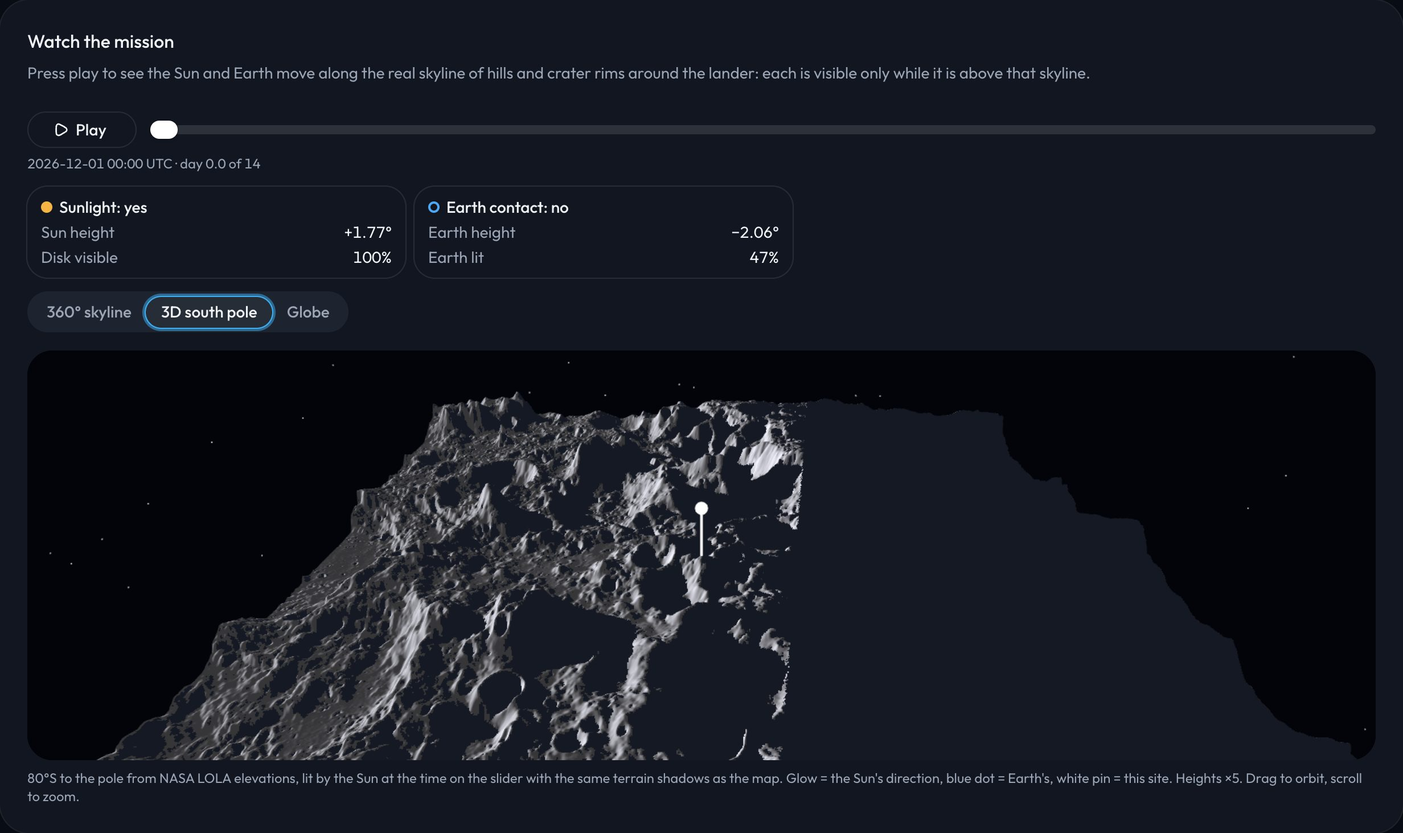
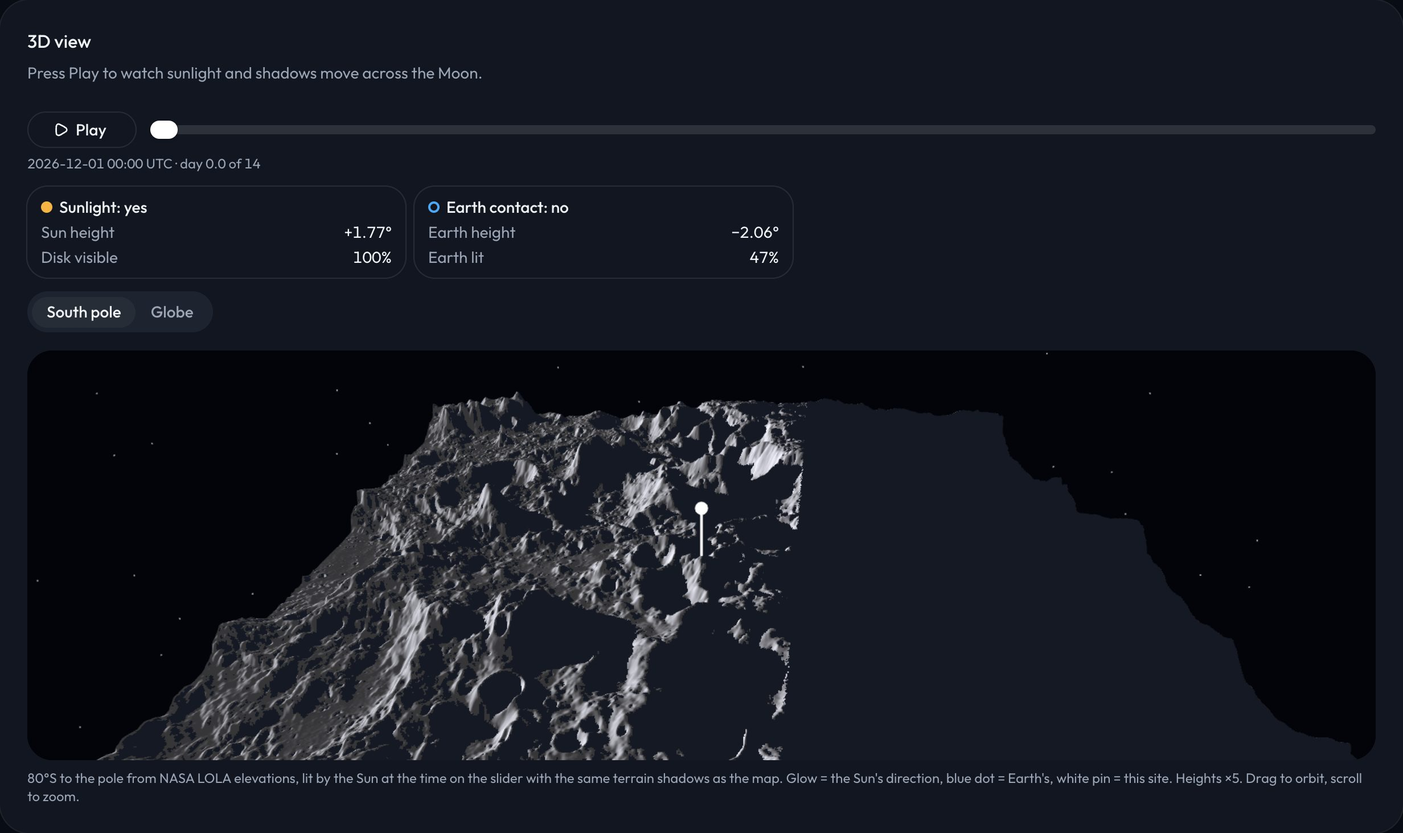
Remove the skyline chart; the mission card is now a simple 3D view

Changed region(s): [[0.0, 0.0307, 0.7812, 0.0922], [0.0312, 0.3381, 0.25, 0.3996]]

diff --git a/frontend/app/components/mission-view.tsx b/frontend/app/components/mission-view.tsx
@@ -6,14 +6,12 @@ import { useState } from "react";
 import { Card, CardContent, CardDescription, CardHeader, CardTitle } from "@/components/ui/card";
 import { Tabs, TabsContent, TabsList, TabsTrigger } from "@/components/ui/tabs";
 
-import { COLORS } from "../lib/colors";
 import { horizonAt } from "../lib/format";
 import type { Scenario, Site } from "../lib/types";
 import { type MissionClock, MissionPlayer } from "./mission-player";
-import { SkyChart } from "./sky-chart";
 import { TimelineChart } from "./timeline-chart";
 
-// three.js is large: load the 3D views only when their tab is opened, and never on the server.
+// three.js is large: load each 3D view in the browser only, the first time its tab is shown.
 const loading = () => <p className="grid h-full place-items-center text-sm text-muted-foreground">Loading 3D view…</p>;
 const MoonGlobe = dynamic(() => import("./moon-globe"), { ssr: false, loading });
 const SouthPole3D = dynamic(() => import("./south-pole-3d"), { ssr: false, loading });
@@ -72,23 +70,23 @@ export function MissionTimeline({ scenario }: { scenario: Scenario }) {
   );
 }
 
-/** Watch the mission play out: the skyline around the lander and the 3D views, all on the mission clock. */
+/**
+ * The mission in 3D, on the mission clock: the south pole (the default for sites within its 80°S edge)
+ * or the whole Moon.
+ */
 export function MissionViews({ scenario, sites, clock }: { scenario: Scenario; sites: Site[]; clock: MissionClock }) {
   const s = scenario.series;
   const { index } = clock;
-  const [view, setView] = useState("skyline");
-  const [opened, setOpened] = useState(() => new Set(["skyline"])); // 3D views mount the first time they're opened
+  const [view, setView] = useState(() => (scenario.site.lat <= -80 ? "pole3d" : "globe"));
+  const [opened, setOpened] = useState(() => new Set([view])); // each 3D view mounts the first time it's shown
   const sunUp = s.sun_el[index] > horizonAt(scenario, s.sun_az[index]);
   const earthUp = s.earth_el[index] > horizonAt(scenario, s.earth_az[index]);
 
   return (
     <Card>
       <CardHeader>
-        <CardTitle>Watch the mission</CardTitle>
-        <CardDescription>
-          Press Play to watch the Sun and Earth move around the lander. Each is visible only while it is above the
-          hills.
-        </CardDescription>
+        <CardTitle>3D view</CardTitle>
+        <CardDescription>Press Play to watch sunlight and shadows move across the Moon.</CardDescription>
       </CardHeader>
       <CardContent className="grid min-w-0 gap-3">
         <MissionPlayer scenario={scenario} clock={clock} />
@@ -124,34 +122,14 @@ export function MissionViews({ scenario, sites, clock }: { scenario: Scenario; s
           }}
         >
           <TabsList className="w-full sm:w-fit">
-            <TabsTrigger value="skyline" className={TAB}>
-              360° skyline
-            </TabsTrigger>
             <TabsTrigger value="pole3d" className={TAB}>
-              3D south pole
+              South pole
             </TabsTrigger>
             <TabsTrigger value="globe" className={TAB}>
               Globe
             </TabsTrigger>
           </TabsList>
           <div className="grid grid-cols-1 *:col-start-1 *:row-start-1">
-            <TabsContent value="skyline" forceMount className={VIEW_PANEL}>
-              <SkyChart scenario={scenario} index={index} />
-              <ul className="flex flex-wrap gap-x-4 gap-y-1 text-xs text-muted-foreground">
-                <li className="flex items-center gap-1.5">
-                  <span className="inline-block h-0.5 w-4" style={{ background: COLORS.sun }} /> Sun&apos;s path
-                </li>
-                <li className="flex items-center gap-1.5">
-                  <span className="inline-block h-0.5 w-4" style={{ background: COLORS.earth }} /> Earth&apos;s path
-                </li>
-                <li className="flex items-center gap-1.5">
-                  <span className="inline-block h-2.5 w-4 rounded-sm" style={{ background: COLORS.terrain }} /> hills around the lander
-                </li>
-                <li className="flex items-center gap-1.5">
-                  <Dot color={COLORS.muted} hollow /> hidden behind the hills
-                </li>
-              </ul>
-            </TabsContent>
             <TabsContent value="pole3d" forceMount className={VIEW_PANEL}>
               <div className="h-[360px]">
                 {opened.has("pole3d") && (

diff --git a/frontend/app/components/plot-figure.tsx b/frontend/app/components/plot-figure.tsx
@@ -3,53 +3,11 @@
 import { useEffect, useRef } from "react";
 
 /** The SVG returned by Plot.plot (our charts have no Plot legends, so it is always an <svg>). */
-export type PlotElement = SVGSVGElement & {
-  scale(name: string): { apply(value: unknown): number; domain?: unknown[]; range?: number[] } | undefined;
-};
+export type PlotElement = SVGSVGElement;
 
-const SVG_NS = "http://www.w3.org/2000/svg";
-
-/** Empty, reusable <g> on top of a chart for cheap per-frame marks (cursor, markers). */
-export function overlayLayer(plot: PlotElement): SVGGElement {
-  let g = plot.querySelector<SVGGElement>("g[data-overlay]");
-  if (!g) {
-    g = document.createElementNS(SVG_NS, "g");
-    g.setAttribute("data-overlay", "");
-    plot.append(g);
-  }
-  g.replaceChildren();
-  return g;
-}
-
-export function svg(tag: string, attrs: Record<string, string | number>, text?: string): SVGElement {
-  const el = document.createElementNS(SVG_NS, tag);
-  for (const [k, v] of Object.entries(attrs)) el.setAttribute(k, String(v));
-  if (text !== undefined) el.textContent = text;
-  return el;
-}
-
-/**
- * Renders an Observable Plot chart at the container's width. The chart is rebuilt only when
- * `render` changes or the width changes; `overlay` (e.g. a time cursor) is redrawn on its own,
- * so scrubbing doesn't rebuild thousands of marks.
- */
-export function PlotFigure({
-  render,
-  overlay,
-  label,
-}: {
-  render: (width: number) => PlotElement;
-  overlay?: (plot: PlotElement) => void;
-  label: string;
-}) {
+/** Renders an Observable Plot chart at the container's width; it is rebuilt only when `render` or the width changes. */
+export function PlotFigure({ render, label }: { render: (width: number) => PlotElement; label: string }) {
   const ref = useRef<HTMLDivElement>(null);
-  const plotRef = useRef<PlotElement | null>(null);
-  const overlayRef = useRef(overlay);
-
-  useEffect(() => {
-    overlayRef.current = overlay;
-    if (plotRef.current) overlay?.(plotRef.current);
-  }, [overlay]);
 
   useEffect(() => {
     const el = ref.current;
@@ -58,10 +16,7 @@ export function PlotFigure({
     const draw = () => {
       if (el.clientWidth === width) return;
       width = el.clientWidth;
-      const plot = render(width);
-      el.replaceChildren(plot);
-      plotRef.current = plot;
-      overlayRef.current?.(plot);
+      el.replaceChildren(render(width));
     };
     draw();
     const observer = new ResizeObserver(draw);

diff --git a/frontend/app/components/method.tsx b/frontend/app/components/method.tsx
@@ -91,7 +91,7 @@ export function Method() {
           </li>
           <li>
             The map layers (sunlight %, Earth contact %, live shadows) use coarser terrain (240–720 m) and are
-            approximate. The skyline chart and the 3D views stretch heights so low terrain is easy to see;
+            approximate. The 3D views stretch heights so low terrain is easy to see;
             directions and positions are exact.
           </li>
           <li>Dates are limited to 2026–2030, the period of the cached ephemeris.</li>

diff --git a/frontend/app/lib/colors.ts b/frontend/app/lib/colors.ts
@@ -3,7 +3,6 @@ export const COLORS = {
   sun: "#f5b544",
   earth: "#4ea8f5",
   both: "#7bd389",
-  terrain: "#4b5873",
   text: "#eef2f8",
   muted: "#a3adc2",
   track: "#2a3448", // empty timeline lanes

diff --git a/REFERENCE.md b/REFERENCE.md
@@ -13,7 +13,7 @@ frontend/          Next.js 16 app (App Router, TypeScript, Tailwind v4, shadcn/u
   app/page.tsx         Page shell (header, method section, footer)
   app/layout.tsx       Font (Outfit as `--font-sans`; it has tabular digits), metadata, favicon (/lander.svg)
   app/navigator.tsx    Client component: loads sites, runs scenarios, lays out results, syncs the URL
-  app/components/      Scenario form, south-pole map, results, sky chart, timelines, comparison, best dates, method
+  app/components/      Scenario form, south-pole map, results, timelines, 3D views, comparison, best dates, method
   public/south-pole-map.png  Shaded relief 80°S–90°S (built by backend/scripts/build_basemap.py)
   public/south-pole-heights.bin  848×848 int16 heights (m) for live shadows, same projection as the relief map
   public/sunlight-map.png, earth-map.png, heatmap.json  Heat map overlays and values (build_heatmap.py)
@@ -107,16 +107,16 @@ The browser calls the backend on the same origin (`fetch("/api/...")`), so there
 
 - **Shareable URLs:** after each successful evaluation the page URL is replaced with `?site=<id>` or `?lat=…&lon=…`, plus `start=YYYY-MM-DDTHH:mm` (UTC) and `days`. On load these parameters prefill the form; missing ones fall back to the defaults (first south-pole site, 2026-12-01 00:00 UTC, 14 days).
 - **South-pole map:** `south-pole-map.png` is 848 × 848 px, polar stereographic centered on the pole, half-width 305,280 m (≈80°S at the edge midpoints), image up = 0°E (toward Earth), 90°E to the right. The constants in `components/south-pole-map.tsx` must match `scripts/build_basemap.py`. Clicking a dot selects a curated site; clicking elsewhere evaluates that point as custom coordinates.
-- **Mission clock** (`components/mission-player.tsx`): `useMissionClock` in `navigator.tsx` holds the page's one mission time (a sample index) and playback (about 12 s per mission, 80 ms frames); it resets to landing time for each new scenario. Every `MissionPlayer` (Play/Pause/Replay, slider, "2026-12-04 05:00 UTC · day 3.2 of 14" with the fixed-length date first so nothing shifts) drives the same clock. There are two: right under the map (it animates the map's live shadows) and at the top of the "Watch the mission" card. The map's shadows and every view follow the clock.
+- **Mission clock** (`components/mission-player.tsx`): `useMissionClock` in `navigator.tsx` holds the page's one mission time (a sample index) and playback (about 12 s per mission, 80 ms frames); it resets to landing time for each new scenario. Every `MissionPlayer` (Play/Pause/Replay, slider, "2026-12-04 05:00 UTC · day 3.2 of 14" with the fixed-length date first so nothing shifts) drives the same clock. There are two: right under the map (it animates the map's live shadows) and at the top of the "3D view" card. The map's shadows and every view follow the clock.
 - **Mission timeline** (`MissionTimeline` + `components/timeline-chart.tsx`): a static picture, no cursor or player. Three bands (Sunlight, Earth contact, Both, each with its % of the mission) on a "Days after landing" axis; every stretch wide enough for its label says how long it lasts, gaps say "… dark" or "… no contact" (labels that don't fit are left out). The height-above-skyline chart was removed on Nov 15 (too technical).
-- **Watch the mission** (`MissionViews`): player, two readout tiles (Sunlight: Sun height and visible disk; Earth contact: Earth height and Earth lit; labels left, values on the right edge with `tabular-nums` and `whitespace-nowrap`, so values changing every frame never move anything), and view tabs. All panels sit in one grid cell (`forceMount`, inactive ones `invisible`, `grid-cols-1` so a wide canvas can't hold the column open), so switching tabs never changes the card's height; each view is at most 360 px tall. 3D views mount the first time their tab opens and then stay mounted, filling the 360 px box they're given.
-  - *360° skyline* (`components/sky-chart.tsx`, the default tab): a Plot panorama all the way around the lander: the hills (terrain horizon) and only the visible stretches of the Sun's and Earth's paths as thick lines (hidden stretches are not drawn), with markers at the slider time (hollow = hidden; a body far below the hills sits on the bottom edge). No height axis or grid (the readout tiles give heights) and only N/E/S/W labels. The panorama starts in the middle of the widest stretch of directions with nothing visible, so visible paths don't split across the two edges. The vertical range is fixed per scenario (1° below the lowest hill to 1° above the highest hill or visible path, at least 6° tall), so Play never rescales it. Simplified on Nov 15 (evening) after the team found the earlier version (height axis up to 12°, dotted paths, gray hidden paths, paths split across the edges) confusing. (A first-person lander view and a round sky map were removed on Nov 15: the first was usually empty, the second repeated the panorama.)
-  - *3D south pole* (`components/south-pole-3d.tsx`, three.js, loaded when the tab first opens): a 424×424-vertex plane over the map square displaced by `south-pole-heights.bin` (heights ×5), shaded per pixel in a custom `ShaderMaterial`: bilinear heights give the slope normal, the light is the Sun's direction in the scene frame (x = 90°E, y = 0°E, z = up at the pole; Moon-fixed (x, y, z) → (y, x, −z)), and the shadow test is the same GLSL ray-march as the 2D layer (`SHADOW_GLSL` in `components/shadow-layer.tsx`, true heights), run once per 720 m heights cell at its center like the map's pixels, so lit and shadowed areas match the map (testing every screen pixel inside a cell caused dotted hatching at grazing Sun angles). A glow sprite marks the Sun's direction and a blue one Earth's (sub-Earth point), each hidden while below the horizon; a white pin marks the site (or a note says it's outside 80°S–90°S). OrbitControls, renders on demand, pixel ratio capped at 1.5 because the ray-march runs per pixel. Projection helpers and constants are shared in `app/lib/polar.ts`.
-  - *Globe* (`components/moon-globe.tsx`, three.js, loaded when the tab first opens): unit sphere with the NASA SVS CGI Moon Kit 4k color map (`moon-texture.jpg`, 4096×2048, anisotropic filtering) and LOLA relief as a bump map (`moon-relief.jpg`, `ldem_3_8bit`), so craters cast shadows along the terminator; a directional light from the sub-solar point at the selected time (real day/night line); a starfield; Earth as a blue sphere in the sub-Earth direction at 5 Moon radii (radius 0.3, not to scale), lit by the same light so it shows its real phase; dots for curated sites and a white dot for the current site. For south-pole sites the camera starts at 60°S, 90°E, 6.2 radii out, so the pole and Earth are both in frame on wide screens. OrbitControls to rotate/zoom; renders on demand. Moon-fixed (x, y, z) maps to three.js as (x, z, −y) to match `SphereGeometry`'s texture layout.
+- **3D view** (`MissionViews`): player, two readout tiles (Sunlight: Sun height and visible disk; Earth contact: Earth height and Earth lit; labels left, values on the right edge with `tabular-nums` and `whitespace-nowrap`, so values changing every frame never move anything), and two view tabs: South pole (the default for sites within its 80°S edge) and Globe (the default elsewhere). Both panels sit in one grid cell (`forceMount`, inactive ones `invisible`, `grid-cols-1` so a wide canvas can't hold the column open), so switching tabs never changes the card's height; each view is at most 360 px tall. Each view mounts the first time its tab is shown (the default one at once) and then stays mounted, filling the 360 px box they're given.
+  - The 360° skyline chart (`components/sky-chart.tsx`) was removed on Nov 15 (evening): the team found it confusing even after it was simplified; the answer, the mission timeline and the 3D views carry its message. (A first-person lander view and a round sky map were removed earlier that day: the first was usually empty, the second repeated the panorama.)
+  - *South pole* (`components/south-pole-3d.tsx`, three.js, loaded when its tab is first shown): a 424×424-vertex plane over the map square displaced by `south-pole-heights.bin` (heights ×5), shaded per pixel in a custom `ShaderMaterial`: bilinear heights give the slope normal, the light is the Sun's direction in the scene frame (x = 90°E, y = 0°E, z = up at the pole; Moon-fixed (x, y, z) → (y, x, −z)), and the shadow test is the same GLSL ray-march as the 2D layer (`SHADOW_GLSL` in `components/shadow-layer.tsx`, true heights), run once per 720 m heights cell at its center like the map's pixels, so lit and shadowed areas match the map (testing every screen pixel inside a cell caused dotted hatching at grazing Sun angles). A glow sprite marks the Sun's direction and a blue one Earth's (sub-Earth point), each hidden while below the horizon; a white pin marks the site (or a note says it's outside 80°S–90°S). OrbitControls, renders on demand, pixel ratio capped at 1.5 because the ray-march runs per pixel. Projection helpers and constants are shared in `app/lib/polar.ts`.
+  - *Globe* (`components/moon-globe.tsx`, three.js, loaded when its tab is first shown): unit sphere with the NASA SVS CGI Moon Kit 4k color map (`moon-texture.jpg`, 4096×2048, anisotropic filtering) and LOLA relief as a bump map (`moon-relief.jpg`, `ldem_3_8bit`), so craters cast shadows along the terminator; a directional light from the sub-solar point at the selected time (real day/night line); a starfield; Earth as a blue sphere in the sub-Earth direction at 5 Moon radii (radius 0.3, not to scale), lit by the same light so it shows its real phase; dots for curated sites and a white dot for the current site. For south-pole sites the camera starts at 60°S, 90°E, 6.2 radii out, so the pole and Earth are both in frame on wide screens. OrbitControls to rotate/zoom; renders on demand. Moon-fixed (x, y, z) maps to three.js as (x, z, −y) to match `SphereGeometry`'s texture layout.
   - Both 3D views take an `active` prop and skip re-rendering on clock ticks while their tab is hidden (they stay mounted).
 - **Page header** (`page.tsx`): the title, the question the app answers, and a one-line how-to (click a site → choose a date → press Play).
-- **Page layout** (`navigator.tsx`): a hero row with the big south-pole map on the left and, on the right, the form, "Add to comparison", then the answer (`Answer` in `components/results.tsx`: mission brief and the two headline cards) or the error. The answer ends with a one-line validation note (the Horizons and Gläser et al. figures from "How we calculate this", linked to `#method`). Best dates (`LandingWindowsPanel` in `components/landing-windows.tsx`) scan the next 365 landing days as soon as a scenario shows; the panel is keyed by site and mission length, so a new site or length rescans while picking a date keeps the list (Rescan repeats it from the current date). Picking a best date scrolls the answer (`#answer`) into view. Custom points are titled "Custom point (coordinates)". Below the hero, full width: the comparison table, the mission timeline, the stats (`Details`), "Watch the mission" and best dates. Below `lg` it stacks as form, map, answer. The map square is `--map-size` (`app/globals.css`: `max(20rem, 100vh - 19rem)`, so it and the player under it fit on the first screen); the map column is that plus the card padding, and the right column takes the rest (at least 340 px). Every layer's note sits in one grid cell, so switching layers never changes the map card's height. The 0° label is in the top-left corner because IM-1's dot sits at the top-center edge.
-- **South-pole map layers** (`components/south-pole-map.tsx`, a `Tabs` segmented control like the sky views, with icons from `sm` up; Shadows is the default): Terrain (relief only); Sunlight and Earth contact (precomputed overlays: share of 2026–2030, every 4 h, with the body's center above the terrain horizon seen from 2 m, on a 160×160 grid (~3.8 km apart) using the 240 m map — approximate; values are at cell centers, so narrow ridges (e.g. Connecting Ridge: cell 40% vs 85% at the exact point) are not resolved, while Shackleton's floor reads 0%; the sunlight colors saturate at 70% (`scale_max` in `heatmap.json`, map maximum 64%); hovering shows the value); Shadows (`components/shadow-layer.tsx`, WebGL2): for each map pixel a ray is marched from 2 m above the ground toward the Sun (unit vector from the sub-solar point at the slider time) across `south-pole-heights.bin` (720 m), placing every sample exactly on the sphere; shadowed pixels are darkened. Approximate at 720 m: a Python copy of the ray-march agreed with the horizon model (240 m) in 254 of 300 sampled site/time cases (85%); disagreements are where the Sun is within a fraction of a degree of the skyline. Shows a message if WebGL2 is missing.
+- **Page layout** (`navigator.tsx`): a hero row with the big south-pole map on the left and, on the right, the form, "Add to comparison", then the answer (`Answer` in `components/results.tsx`: mission brief and the two headline cards) or the error. The answer ends with a one-line validation note (the Horizons and Gläser et al. figures from "How we calculate this", linked to `#method`). Best dates (`LandingWindowsPanel` in `components/landing-windows.tsx`) scan the next 365 landing days as soon as a scenario shows; the panel is keyed by site and mission length, so a new site or length rescans while picking a date keeps the list (Rescan repeats it from the current date). Picking a best date scrolls the answer (`#answer`) into view. Custom points are titled "Custom point (coordinates)". Below the hero, full width: the comparison table, the mission timeline, the stats (`Details`), the "3D view" card and best dates. Below `lg` it stacks as form, map, answer. The map square is `--map-size` (`app/globals.css`: `max(20rem, 100vh - 19rem)`, so it and the player under it fit on the first screen); the map column is that plus the card padding, and the right column takes the rest (at least 340 px). Every layer's note sits in one grid cell, so switching layers never changes the map card's height. The 0° label is in the top-left corner because IM-1's dot sits at the top-center edge.
+- **South-pole map layers** (`components/south-pole-map.tsx`, a `Tabs` segmented control like the 3D view tabs, with icons from `sm` up; Shadows is the default): Terrain (relief only); Sunlight and Earth contact (precomputed overlays: share of 2026–2030, every 4 h, with the body's center above the terrain horizon seen from 2 m, on a 160×160 grid (~3.8 km apart) using the 240 m map — approximate; values are at cell centers, so narrow ridges (e.g. Connecting Ridge: cell 40% vs 85% at the exact point) are not resolved, while Shackleton's floor reads 0%; the sunlight colors saturate at 70% (`scale_max` in `heatmap.json`, map maximum 64%); hovering shows the value); Shadows (`components/shadow-layer.tsx`, WebGL2): for each map pixel a ray is marched from 2 m above the ground toward the Sun (unit vector from the sub-solar point at the slider time) across `south-pole-heights.bin` (720 m), placing every sample exactly on the sphere; shadowed pixels are darkened. Approximate at 720 m: a Python copy of the ray-march agreed with the horizon model (240 m) in 254 of 300 sampled site/time cases (85%); disagreements are where the Sun is within a fraction of a degree of the skyline. Shows a message if WebGL2 is missing.
 - **Charts are built once per scenario.** `PlotFigure` rebuilds a Plot chart only when its `render` callback changes (new scenario) or its width changes; per-time marks (markers, cursor) are drawn by an `overlay` callback into a `<g data-overlay>` using `plot.scale("x"|"y").apply`, so dragging the slider never rebuilds thousands of marks. Charts must not use Plot legends (that would wrap the SVG in a `<figure>`); legends are HTML.
 - **Wording:** "Sunlight" (Sun above the terrain horizon) and "Earth contact" (Earth above it), "Longest darkness", "Longest blackout", "Both at once" — used the same way everywhere; one-line explanations live in `app/lib/glossary.ts` (shown via `components/info-tip.tsx`).
 - **Mission brief** (from the API, `lunar/brief.py`): a plain-language summary sentence plus Good/Fair/Poor ratings for power and comms. Rule (ours, not NASA's): good = ≥70% of the mission with no gap over 3 days; fair = ≥40% with no gap over 7 days; else poor. Tested in `tests/test_brief.py`.

diff --git a/SUBMISSION.md b/SUBMISSION.md
@@ -18,8 +18,8 @@ If a lander touches down here, on this date, how long will it have sunlight and 
 - the percentage of the mission that is sunlit, has Earth contact, or both;
 - the longest dark period (battery and thermal survival) and longest communication blackout;
 - average sunlight on a vertical vs a flat solar panel;
-- a sky panorama of the terrain horizon with the Sun's and Earth's paths, and timelines of every window.
-Every scenario starts with a plain-language mission brief and Good/Fair/Poor ratings for power and communications. Press Play to watch the mission: real terrain shadows sweep around the south pole on the map, the Sun and Earth move along the 360° skyline, a 3D model of the south pole is lit by the Sun with the same shadows, and a 3D Moon shows the day/night line with Earth in its real direction and phase. On the south-pole map you can switch on sunlight and Earth-contact heat maps or live terrain shadows that sweep around the pole as time moves. Scenarios can be compared side by side, a "best landing dates" scan evaluates every landing day over the next year, every term has a hover explanation, results download as CSV, and every scenario has a shareable link.
+- a mission timeline of every sunlit and Earth-contact window.
+Every scenario starts with a plain-language mission brief and Good/Fair/Poor ratings for power and communications. Press Play to watch the mission: real terrain shadows sweep around the south pole on the map, a 3D model of the south pole is lit by the Sun with the same shadows, and a 3D Moon shows the day/night line with Earth in its real direction and phase. On the south-pole map you can switch on sunlight and Earth-contact heat maps or live terrain shadows that sweep around the pole as time moves. Scenarios can be compared side by side, a "best landing dates" scan evaluates every landing day over the next year, every term has a hover explanation, results download as CSV, and every scenario has a shareable link.
 
 **How it works.** We query JPL Horizons once for where the Sun and Earth are directly overhead on the Moon (every 30 minutes, 2026–2030), then compute the exact direction to each from any site, including Earth's parallax. The local horizon comes from LOLA elevation maps: 720 rays cast out to 300 km from a 2 m-high lander, with every sample placed on the curved Moon (20 m maps near curated south-pole sites, 120 m beyond; 120 m + 240 m maps for custom points). A site is sunlit when the Sun's center is above that terrain horizon and has Earth contact when Earth's center is.
 
@@ -58,7 +58,7 @@ Add English subtitles if the narration is in another language.
 1. Title + one-line question
 2. The problem: south-pole lighting and comms, schedule slips
 3. Our approach: Horizons + LOLA → horizon → windows (diagram)
-4. Demo screenshot: headline answers + sky view
+4. Demo screenshot: headline answers + mission timeline
 5. Compare + best dates
 6. Validation numbers
 7. Impact and what's next

diff --git a/README.md b/README.md
@@ -23,10 +23,9 @@ Pick a landing site (29 curated sites with sources, including NASA's 9 Artemis I
 - **Headline:** is the Sun up at touchdown, and how long until sunset (or sunrise)? Is Earth in view, and how long until Earthset?
 - **Mission summary:** % of the mission sunlit, % with Earth contact, % with both.
 - **Risk:** the longest dark period (battery/thermal survival) and the longest communication blackout.
-- **Sky view:** the real terrain horizon with the Sun's and Earth's paths over the mission.
 - **Mission timeline:** one picture of when the lander has sunlight, Earth contact, or both, with how long each stretch lasts.
 - **Mission brief:** one plain-language sentence plus Good/Fair/Poor ratings for power and communications.
-- **Mission playback:** scrub or play through the mission and watch the Sun circle the horizon and Earth rise and set, with one Play button: live terrain **shadows sweep across the south-pole map**, a **360° skyline** chart shows the Sun's and Earth's paths, a **3D south pole** (LOLA relief lit by the real Sun with the same ray-marched shadows) and a **3D Moon globe** (4k NASA texture with relief, Earth in its real direction and phase) follow the same time.
+- **Mission playback:** scrub or play through the mission and watch the Sun circle the horizon and Earth rise and set, with one Play button: live terrain **shadows sweep across the south-pole map**, and a **3D south pole** (LOLA relief lit by the real Sun with the same ray-marched shadows) and a **3D Moon globe** (4k NASA texture with relief, Earth in its real direction and phase) follow the same time.
 - **South-pole map layers:** sunlight % and Earth-contact % heat maps (2026–2030) and **live terrain shadows** that move with the time slider.
 - **Help and export:** hover explanations for every term and a CSV download of the timeline.
 - **Comparison:** up to three scenarios side by side.

diff --git a/AI_USE.md b/AI_USE.md
@@ -34,7 +34,7 @@ Entries are added per milestone: what Claude wrote, and what the team decided or
 
 - **Judge-readiness (Nov 15, evening):** at the team's request Claude made "Best landing dates" load on its own (no scan button press needed), added a one-line how-to under the title, checked the page at desktop and phone widths, fixed two issues found in that check (dotted hatching in the 3D view's shadows; a hard-to-read tooltip on the best-dates chart), and rewrote the top of the README for judges with screenshots Claude captured from the running app (screenshots, not AI-generated images).
 
-- **Simpler skyline chart (Nov 15, evening):** the team found the 360° skyline chart confusing and asked to simplify it. Claude rewrote it (only the visible parts of the Sun's and Earth's paths, as thick lines; no height axis; a four-item legend; the panorama turned so paths don't split across its edges) and checked it on a south-pole ridge, a near-side and a far-side site, and at phone width.
+- **Skyline chart removed (Nov 15, evening):** the team found the 360° skyline chart confusing and asked to simplify it. Claude rewrote it (only the visible parts of the Sun's and Earth's paths, no height axis, a shorter legend) and checked it on several kinds of site; the team still found it confusing and questioned the whole "Watch the mission" card, so Claude recommended, and made, a smaller change set: remove the chart and its code, and keep the card as a "3D view" (South pole and Globe tabs).
 
 ## Content not generated by AI
 
